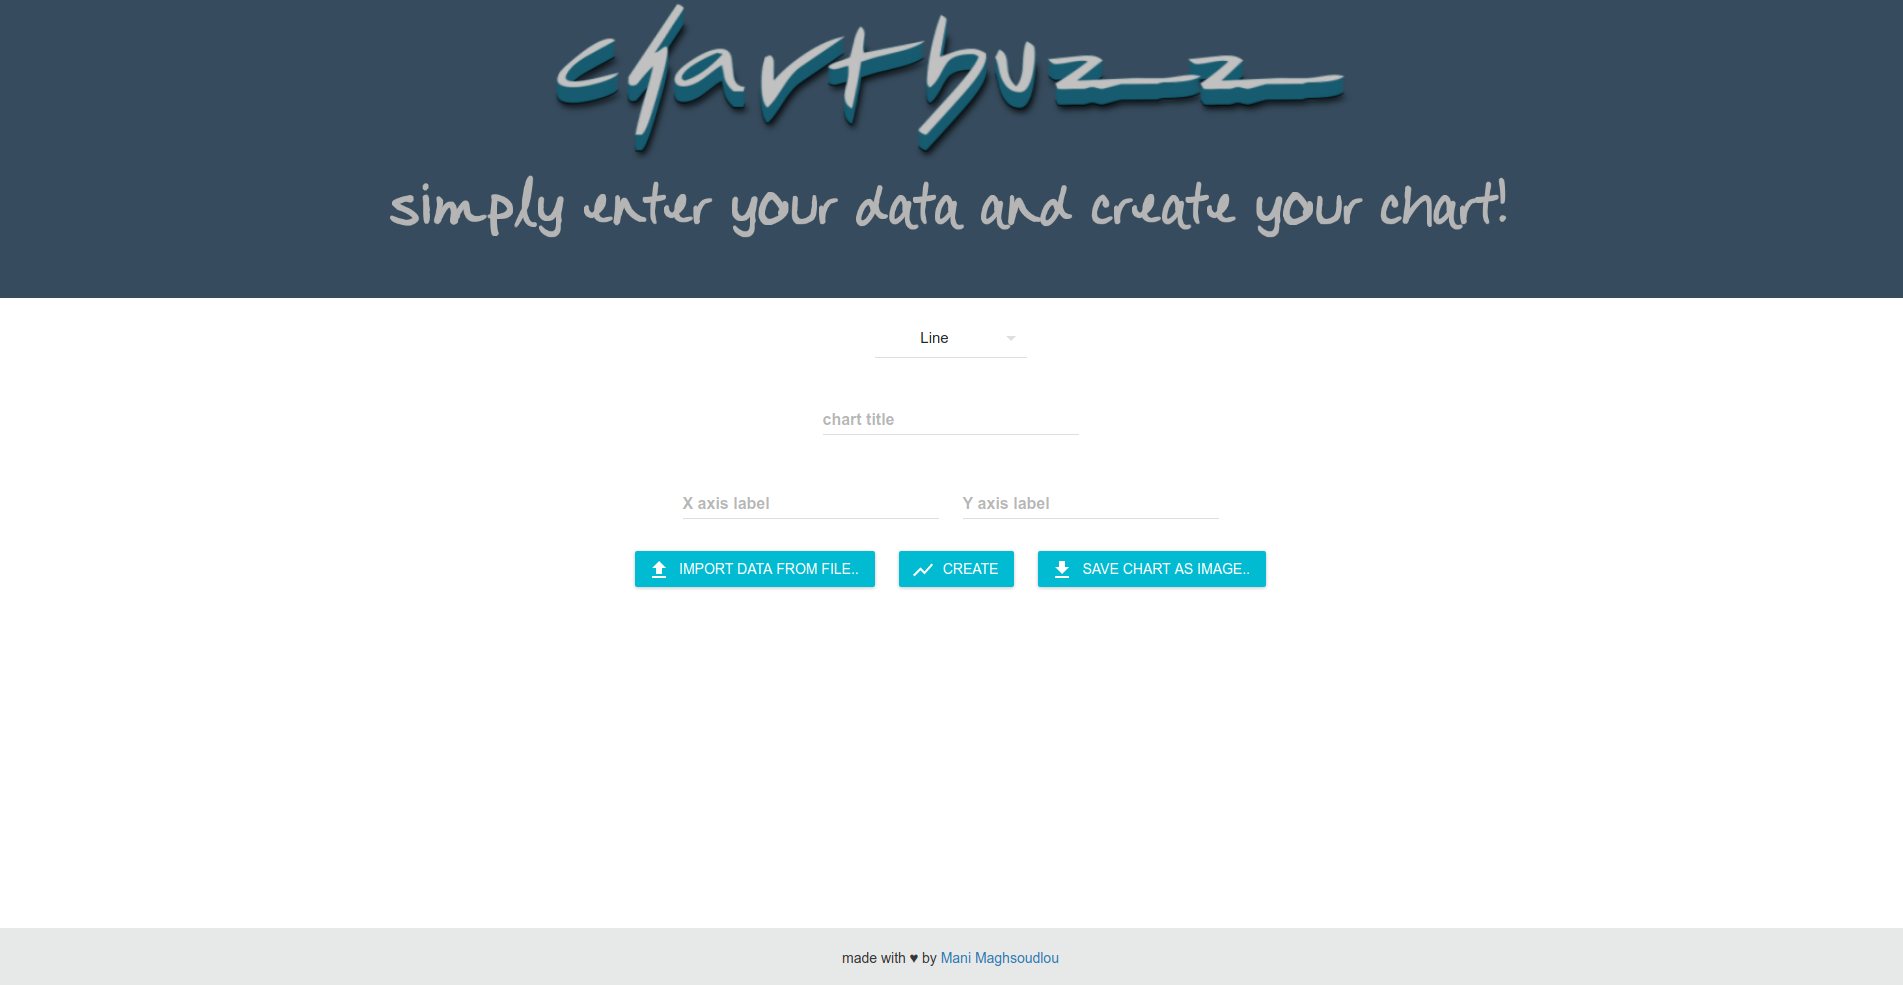
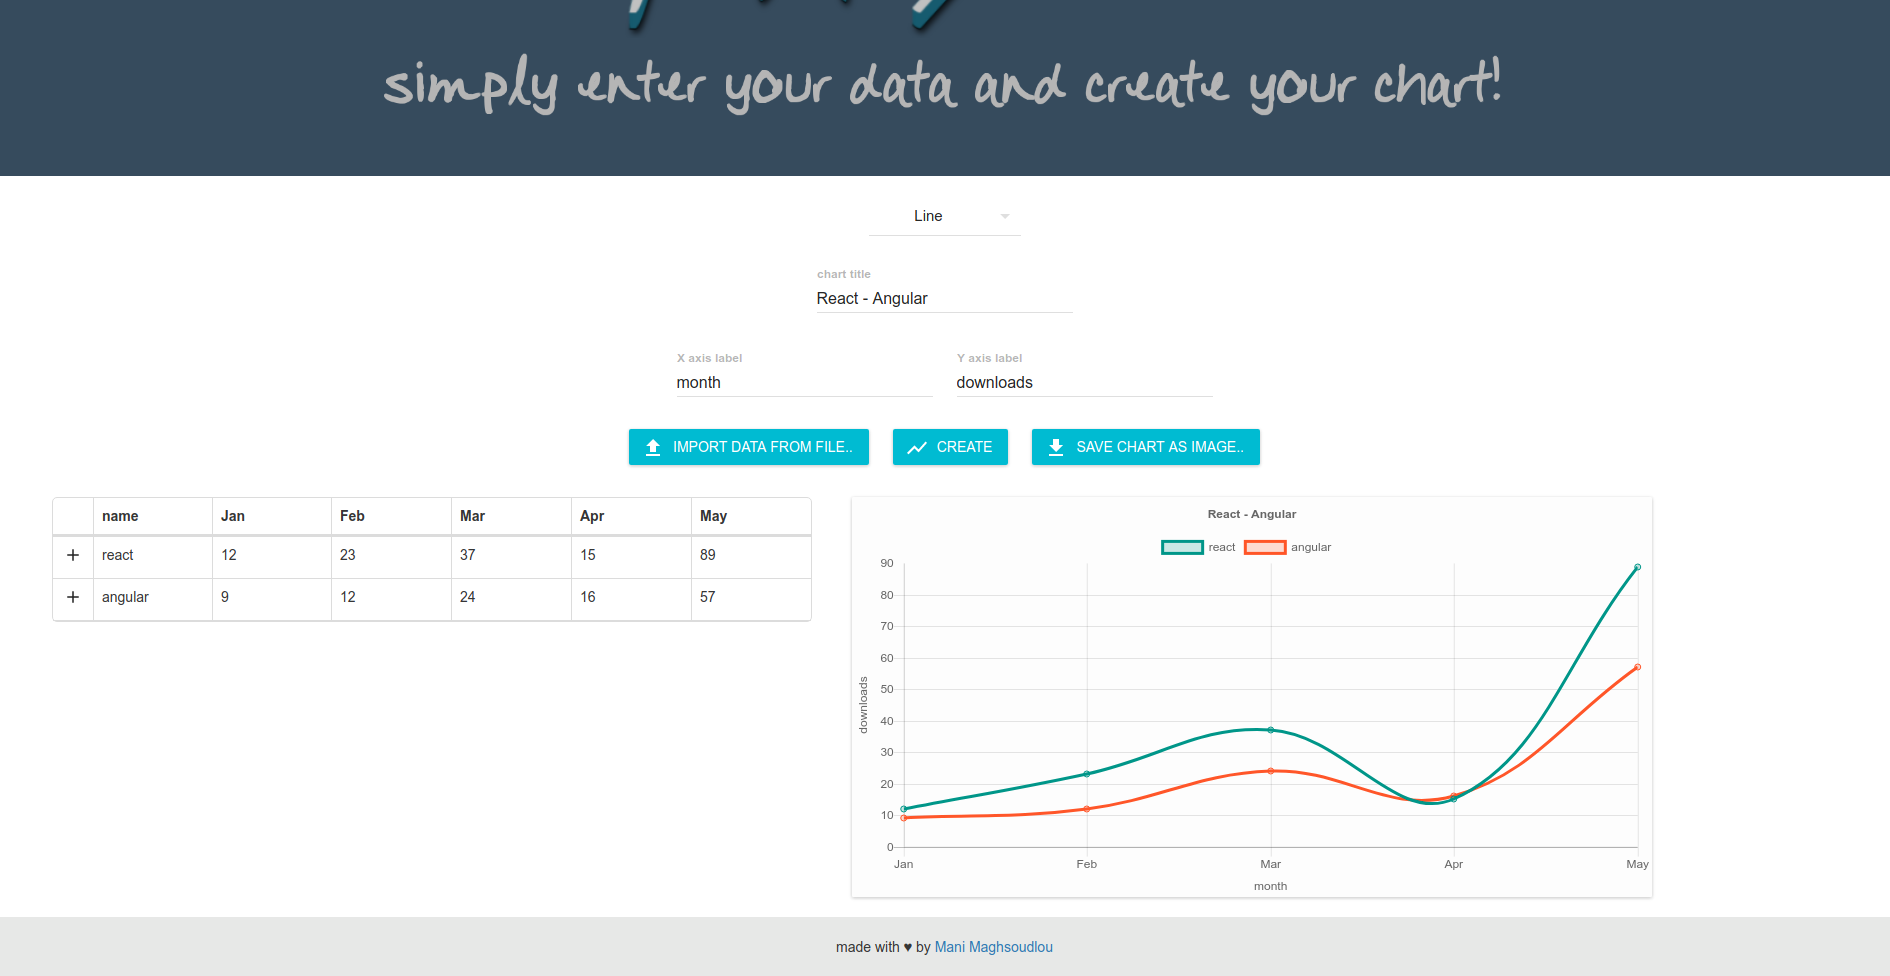
update data table format

diff --git a/src/App.css b/src/App.css
@@ -103,3 +103,67 @@
   height: 100px;
   margin-top: 10px;
 }
+
+/* data table custom row selection */
+.checkbox-personalized * {
+  box-sizing: border-box;
+}
+.checkbox-personalized input[type=checkbox] {
+  display: none;
+}
+.checkbox-personalized label {
+  margin: 0 auto;
+  display: block;
+  padding: 5px 0;
+}
+.checkbox-personalized label .check {
+  margin: 3px 5px;
+  width: 20px;
+  height: 20px;
+  border: 1px solid #999;
+  border-radius: 2px;
+  text-align: center;
+  position: relative;
+  overflow: hidden;
+  cursor: pointer;
+  transition: all 0.2s ease-in;
+}
+.checkbox-personalized input[type=checkbox]:checked + label .check {
+  background: #1e95fb;
+  transition: all 0.2s ease-in;
+  border: 1px solid #1e95fb;
+}
+.checkbox-personalized input[type=checkbox]:checked + label .check:after {
+    content: '';
+    display: block;
+    width: 5px;
+    height: 11px;
+    border: solid #FFF;
+    margin: 2px 7px;
+    border-width: 0 2px 2px 0;
+    transform: rotate(45deg);
+}
+.checkbox-personalized input[type=checkbox]:indeterminate + label .check {
+  background: #939ba2;
+  transition: all 0.2s ease-in;
+  border: 1px solid #939ba2;
+}
+.checkbox-personalized input[type=checkbox]:indeterminate + label .check:after {
+  content: '';
+  display: block;
+  height: 11px;
+  border: solid #FFF;
+  margin: 2px 7px;
+  border-width: 0 2px 0 0;
+  transform: rotate(90deg);
+}
+
+.custom-select-body-class > tbody > tr > td:first-child {
+  padding: 0 !important;
+  margin-right: 20px;
+}
+
+.custom-select-header-class > thead > tr > th:first-child {
+  padding: 0 !important;
+  margin-right: 20px;
+}

diff --git a/src/components/DataTable.js b/src/components/DataTable.js
@@ -19,10 +19,16 @@ const style = {
   }
 };
 
+
 class DataTable extends Component {
   constructor(props) {
     super(props);
 
+    this.handleChange = this.handleChange.bind(this);
+    this.expandComponent = this.expandComponent.bind(this);
+    this.expandColumnComponent = this.expandColumnComponent.bind(this);
+    this.isExpandableRow = this.isExpandableRow.bind(this);
+    this.onBeforeSaveCell = this.onBeforeSaveCell.bind(this);
     this.onAfterSaveCell = this.onAfterSaveCell.bind(this);
 
     this.cellEditMode = {
@@ -30,12 +36,6 @@ class DataTable extends Component {
       beforeSaveCell: this.onBeforeSaveCell,
       afterSaveCell: this.onAfterSaveCell
     };
-
-    this.handleChange = this.handleChange.bind(this);
-    this.expandComponent = this.expandComponent.bind(this);
-    this.expandColumnComponent = this.expandColumnComponent.bind(this);
-    this.isExpandableRow = this.isExpandableRow.bind(this);
-    this.onBeforeSaveCell = this.onBeforeSaveCell.bind(this);
   }
 
   onAfterSaveCell(row) {

diff --git a/src/App.js b/src/App.js
@@ -118,7 +118,7 @@ class App extends Component {
           for (var i = 0; i < rowDat.length; i += 1) {
             bgCols.push(colors[i].borderColor);
           }
-          datasets.push({hoverBackgroundColor: bgCols, backgroundColor: bgCols, data: rowDat});
+          datasets.push({label: r.label, hoverBackgroundColor: bgCols, backgroundColor: bgCols, data: rowDat});
         } else {
           datasets.push({label: r.label, fill: r.fill, borderColor: r.borderColor, backgroundColor: r.bgColor, data: rowDat});
         }

diff --git a/README.md b/README.md
@@ -9,12 +9,8 @@ It is already up and running and everyone is welcome to use it! However, it is a
 
 ![demo](/doc-imgs/demo.gif?raw=true)
 
-### Sample Screenshots
+#### Sample Screenshots
 
 ![screenshot0](/doc-imgs/0.png?raw=true)
 ![screenshot1](/doc-imgs/1.png?raw=true)
 ![screenshot2](/doc-imgs/2.png?raw=true)
-![screenshot3](/doc-imgs/3.png?raw=true)
-![screenshot4](/doc-imgs/4.png?raw=true)
-![screenshot5](/doc-imgs/5.png?raw=true)
-![screenshot6](/doc-imgs/6.png?raw=true)
